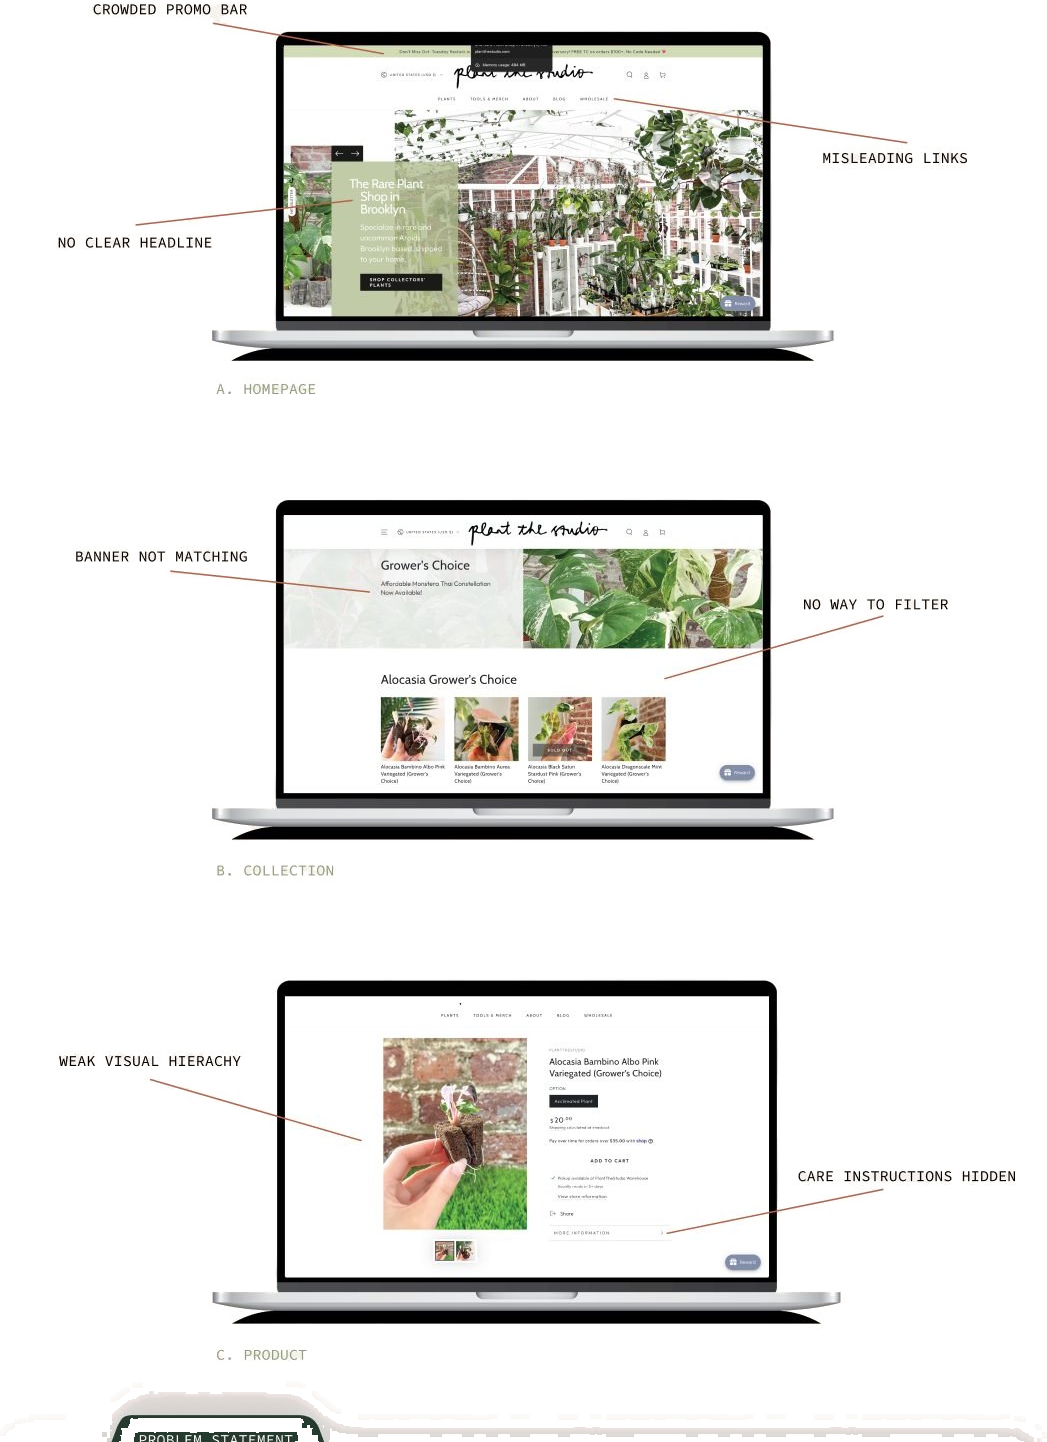
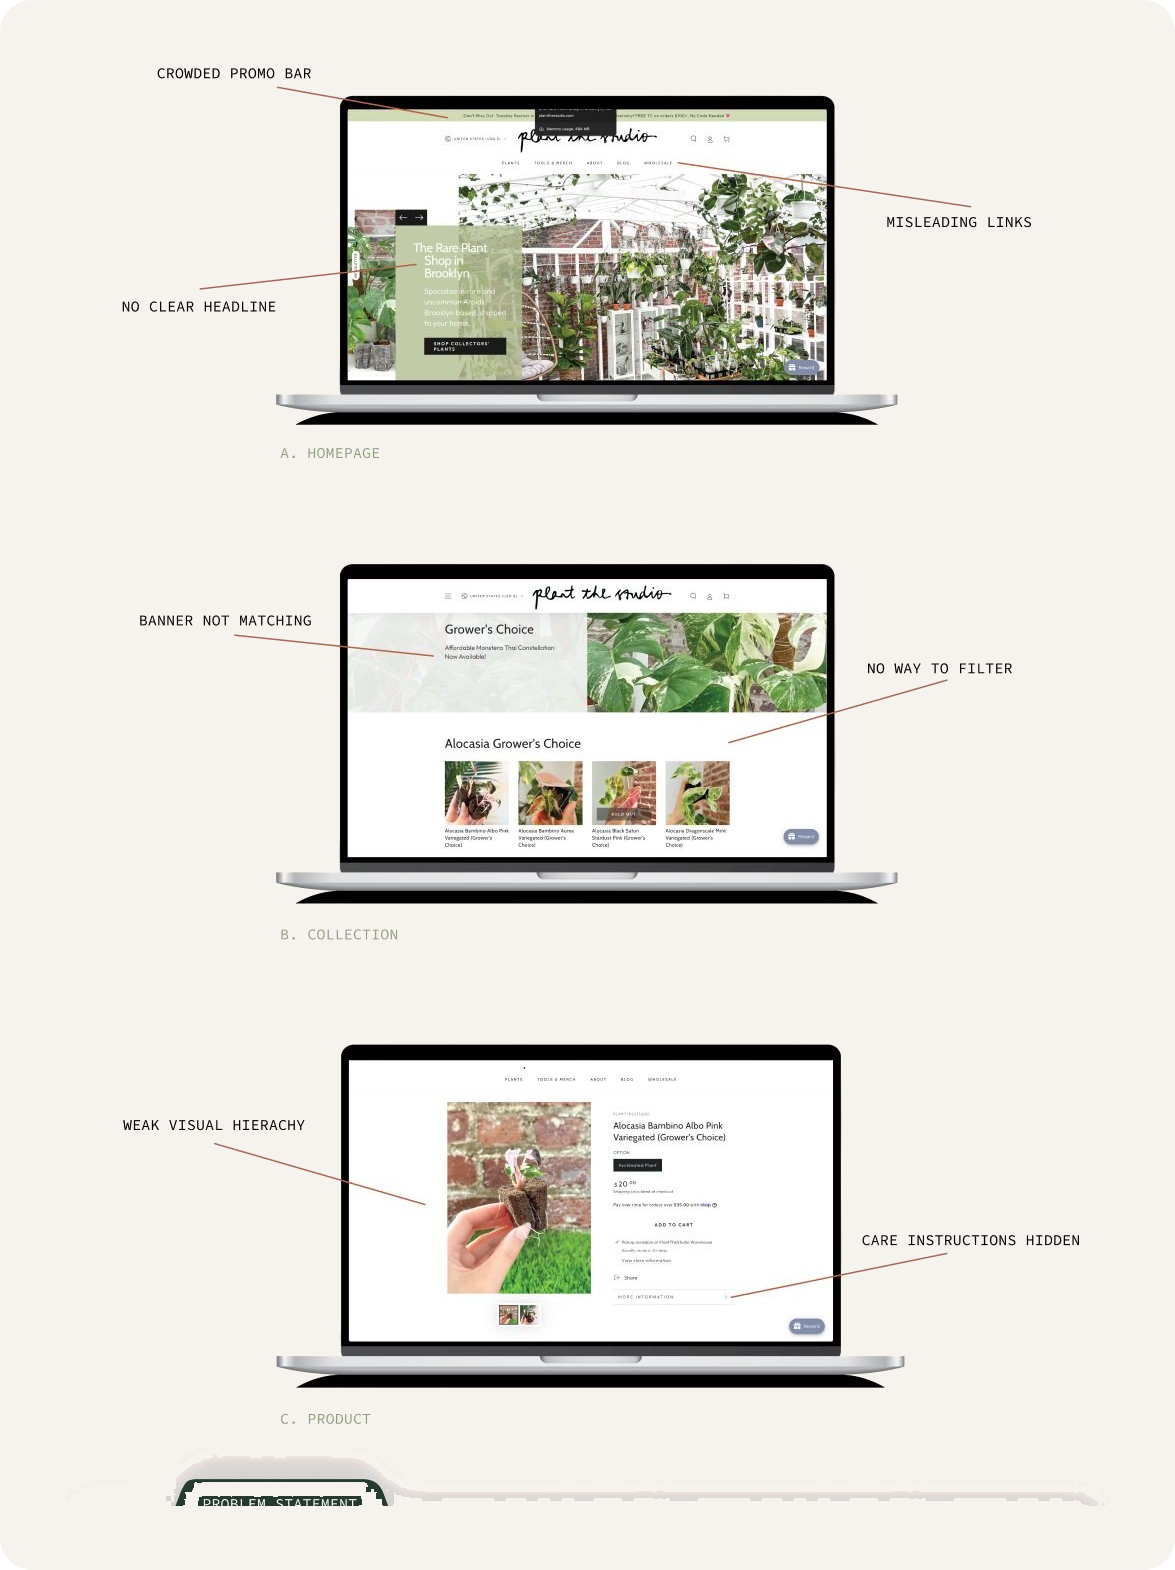
Update image aspect ratios for improved layout consistency

diff --git a/collections/design/plant-the-studio-website-redesign/index.html b/collections/design/plant-the-studio-website-redesign/index.html
@@ -104,7 +104,7 @@
           <p class="lc-body">The existing storefront presented an opportunity to improve the relationship between navigation, product organization, and product information.</p>
         </div>
         <figure class="lc-fig" style="--col: 6 / span 7; --row: 1">
-          <div class="lc-fig-frame" style="--ar: 1047 / 1442"><img src="images/cs/audit.png" alt="Audit of the current Plant the Studio homepage, collection and product pages, with notes on the crowded promo bar, missing headline, misleading links, no filters and hidden care instructions." loading="lazy"></div>
+          <div class="lc-fig-frame" style="--ar: 1175 / 1570"><img src="images/cs/audit.png" alt="Audit of the current Plant the Studio homepage, collection and product pages, with notes on the crowded promo bar, missing headline, misleading links, no filters and hidden care instructions." loading="lazy"></div>
           <figcaption class="lc-cap">Fig. 01 — Auditing the current homepage, collection and product pages.</figcaption>
         </figure>
       </div>
@@ -131,8 +131,8 @@
         </div>
       </div>
       <div class="lc-gallery" style="margin-top: clamp(32px, 4vw, 56px)">
-        <figure class="lc-fig" style="--grow: 0.986; --max: 960px">
-          <div class="lc-fig-frame" style="--ar: 2400 / 2435"><img src="images/cs/mobile.png" alt="Mobile layouts of the Plant the Studio homepage, plants page and filter sheet." loading="lazy"></div>
+        <figure class="lc-fig" style="--grow: 0.987; --max: 960px">
+          <div class="lc-fig-frame" style="--ar: 2560 / 2595"><img src="images/cs/mobile.png" alt="Mobile layouts of the Plant the Studio homepage, plants page and filter sheet." loading="lazy"></div>
           <figcaption class="lc-cap">Fig. 03 — The same shop on a smaller screen.</figcaption>
         </figure>
       </div>
